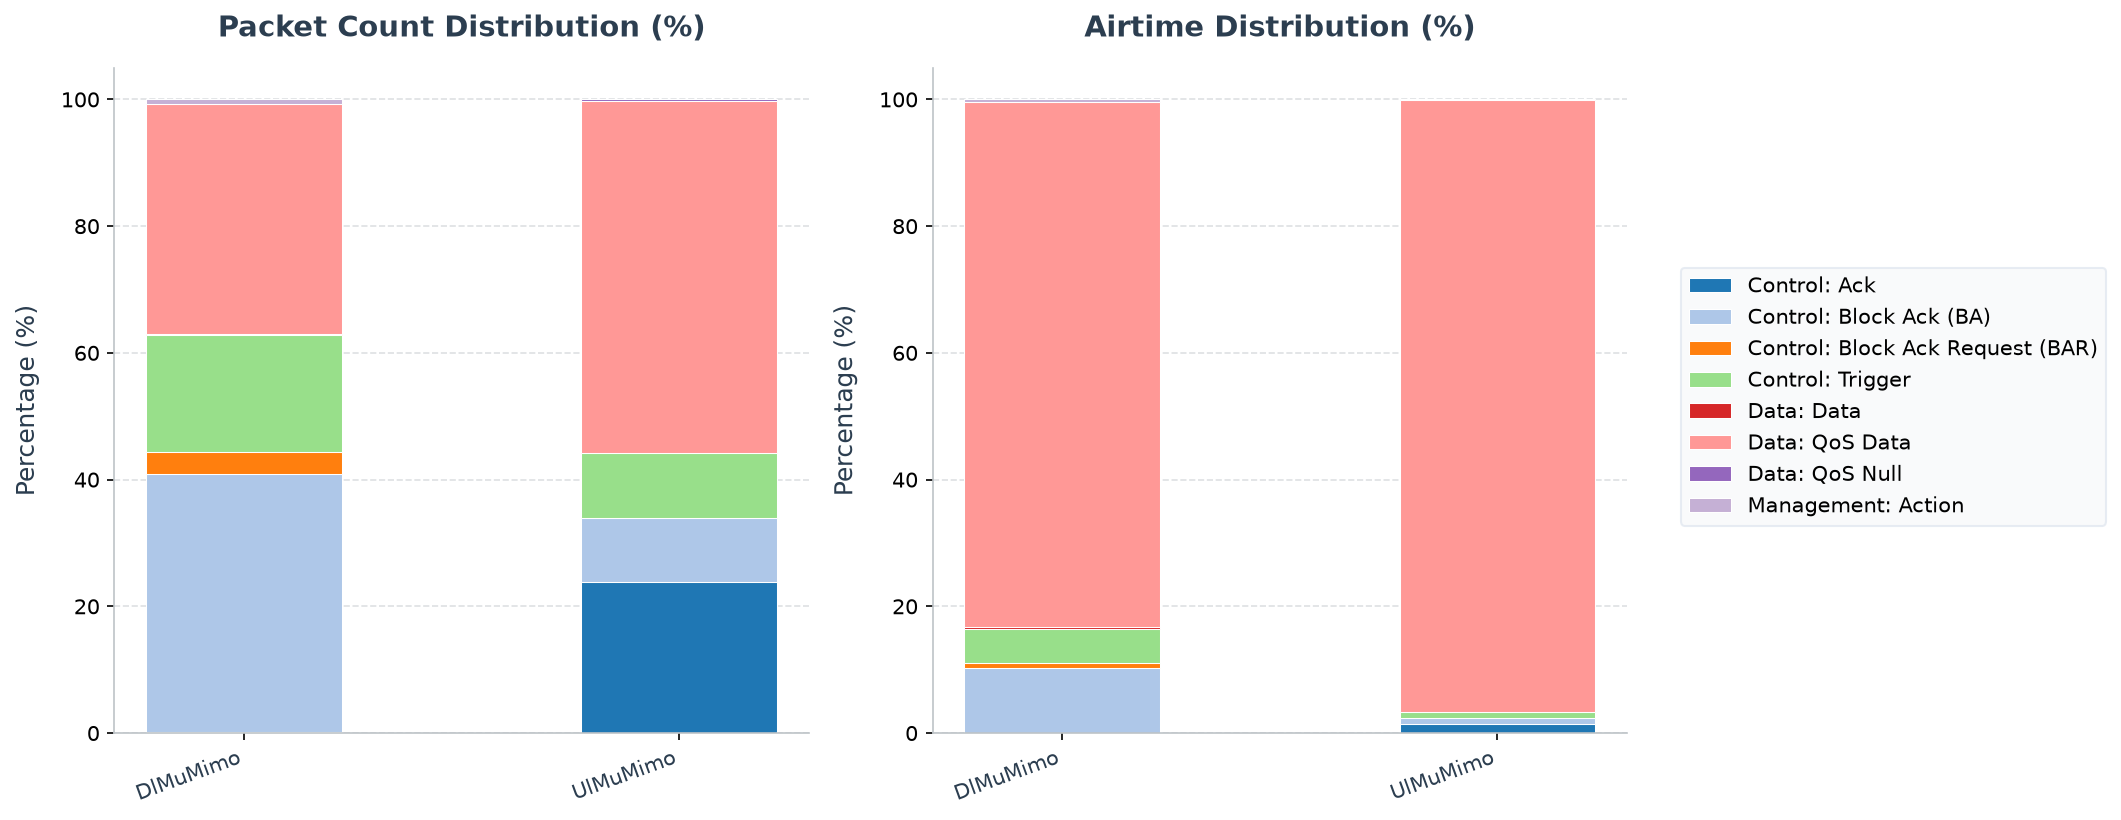
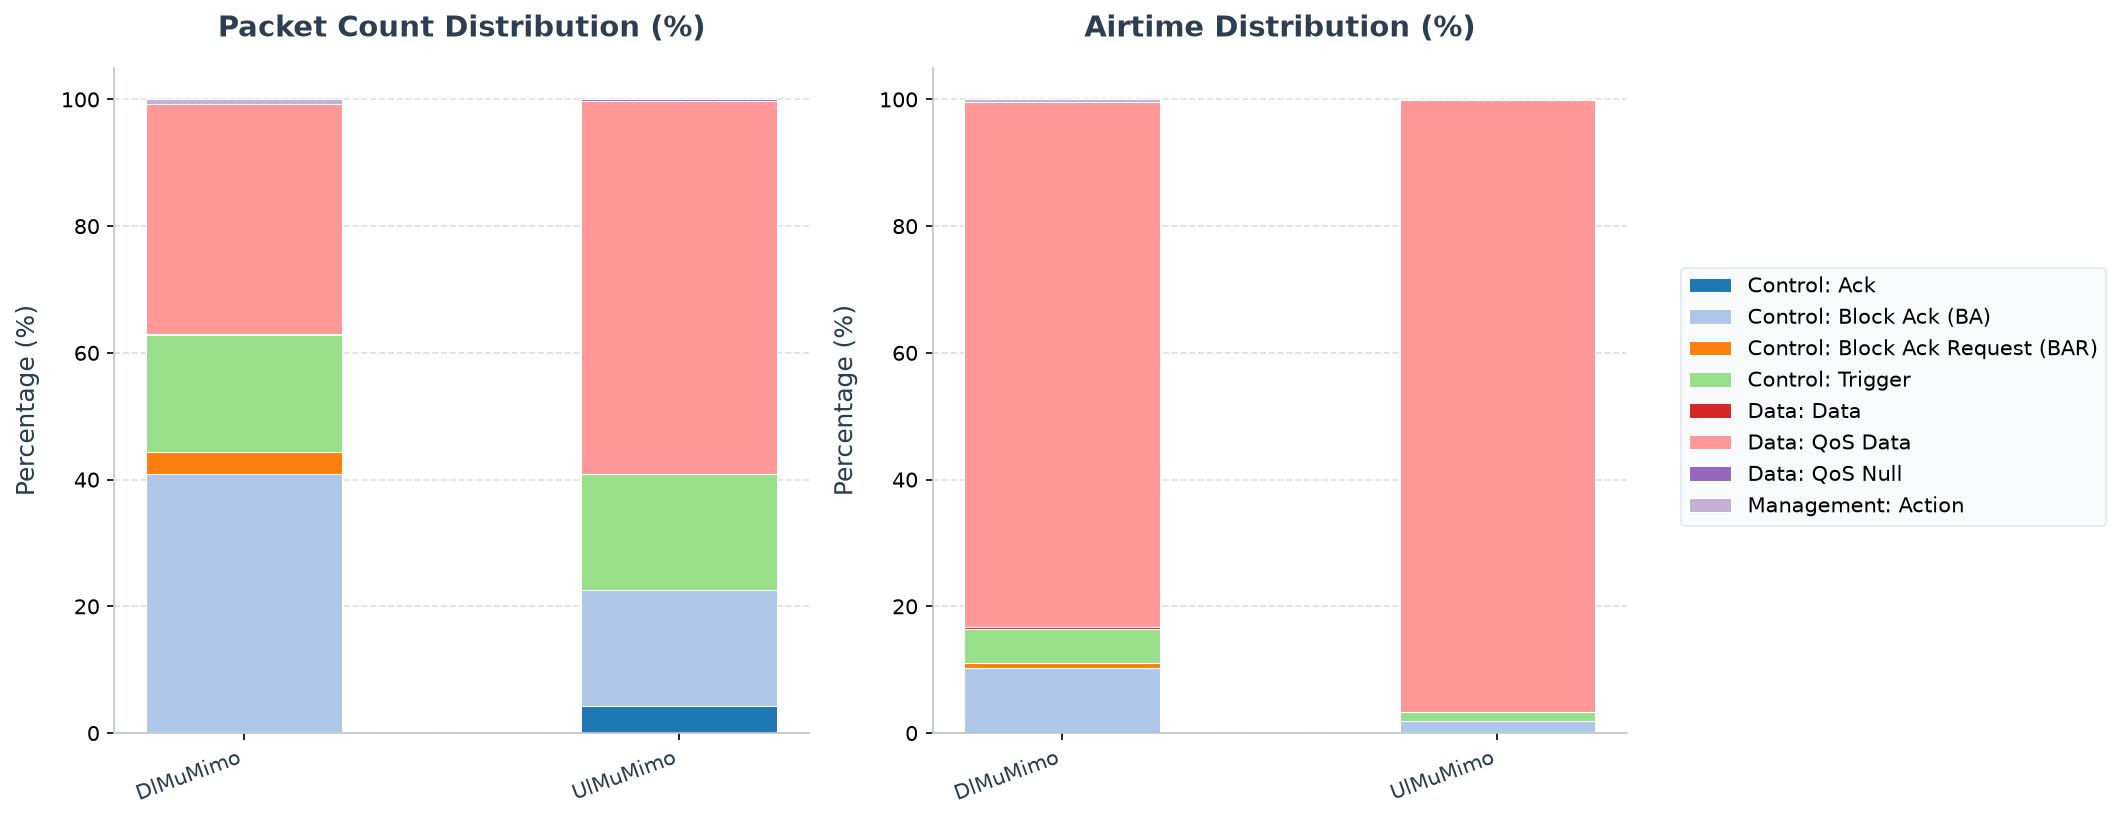
feat(802.11ax):  Radiotap HE and HE-MU Field Serialization
We have successfully implemented the serialization of IEEE 802.11ax HE (High-Efficiency) and HE-MU (Multi-User) Radiotap fields inside INET's [PcapRecorder](src/inet/common/packet/recorder/PcapRecorder.cc).

## Changes Made

### 1. Header Imports and Enum Extension
We updated [PcapRecorder.cc](src/inet/common/packet/recorder/PcapRecorder.cc) to include HE-specific tag and mode classes:

```cpp
#ifdef INET_WITH_IEEE80211
#include "inet/linklayer/ieee80211/mac/Ieee80211Frame_m.h"
#include "inet/physicallayer/wireless/ieee80211/packetlevel/Ieee80211Tag_m.h"
#include "inet/physicallayer/wireless/ieee80211/mode/Ieee80211HeMode.h"
#endif
```

We also added the HE and HE-MU field positions to the `RadiotapPresentBit` enum:

```cpp
enum RadiotapPresentBit {
    ...
    RADIOTAP_HE = 23,
    RADIOTAP_HE_MU = 24,
};
```

### 2. makeRadiotapHeader Update
We refactored `makeRadiotapHeader` to:
* Detect active HE multi-user request/indication tags ([Ieee80211HeMuReq](src/inet/physicallayer/wireless/ieee80211/packetlevel/Ieee80211Tag.msg#L59-L84) and [Ieee80211HeMuRxTag](src/inet/physicallayer/wireless/ieee80211/packetlevel/Ieee80211Tag.msg#L107-L117)) or HE modes.
* Set the corresponding HE and HE-MU present flags in the Radiotap bitmap.
* Append the 2-byte aligned structures for the HE field (12 bytes) and the HE-MU field (12 bytes) with physical layer attributes (format, GI, MCS, spatial streams, coding, and Resource Unit subcarrier channels).

---

## Verification Results
[…]

Changed region(s): [[0.2489, 0.6098, 0.3734, 0.8841], [0.6535, 0.8537, 0.7468, 0.9146], [0.2489, 0.5488, 0.3734, 0.5793]]

diff --git a/src/inet/common/packet/recorder/PcapRecorder.cc b/src/inet/common/packet/recorder/PcapRecorder.cc
@@ -29,6 +29,8 @@
 
 #ifdef INET_WITH_IEEE80211
 #include "inet/linklayer/ieee80211/mac/Ieee80211Frame_m.h"
+#include "inet/physicallayer/wireless/ieee80211/packetlevel/Ieee80211Tag_m.h"
+#include "inet/physicallayer/wireless/ieee80211/mode/Ieee80211HeMode.h"
 #endif
 
 #ifdef INET_WITH_PHYSICALLAYERWIRELESSCOMMON
@@ -49,6 +51,8 @@ enum RadiotapPresentBit {
     RADIOTAP_DBM_TX_POWER = 10,
     RADIOTAP_RX_FLAGS = 14,
     RADIOTAP_TX_FLAGS = 15,
+    RADIOTAP_HE = 23,
+    RADIOTAP_HE_MU = 24,
 };
 
 enum RadiotapFlags {
@@ -141,6 +145,45 @@ std::vector<uint8_t> makeRadiotapHeader(const Packet *packet, Direction directio
     uint32_t present = 1U << RADIOTAP_FLAGS;
     std::vector<uint8_t> bytes(8, 0); // version, pad, length, present bitmap
 
+    bool isHe = false;
+    bool isHeMu = false;
+    Ptr<const physicallayer::Ieee80211HeMuReq> heMuReq;
+    Ptr<const physicallayer::Ieee80211HeMuRxTag> heMuRx;
+    const physicallayer::Ieee80211HeMode *heMode = nullptr;
+
+#ifdef INET_WITH_IEEE80211
+    heMuReq = packet->findTag<physicallayer::Ieee80211HeMuReq>();
+    heMuRx = packet->findTag<physicallayer::Ieee80211HeMuRxTag>();
+    if (heMuReq != nullptr || heMuRx != nullptr) {
+        isHe = true;
+        isHeMu = true;
+    }
+    else {
+        const physicallayer::IIeee80211Mode *mode = nullptr;
+        auto modeReq = packet->findTag<physicallayer::Ieee80211ModeReq>();
+        if (modeReq != nullptr)
+            mode = modeReq->getMode();
+        else {
+            auto modeInd = packet->findTag<physicallayer::Ieee80211ModeInd>();
+            if (modeInd != nullptr)
+                mode = modeInd->getMode();
+        }
+        if (mode != nullptr) {
+            heMode = dynamic_cast<const physicallayer::Ieee80211HeMode *>(mode);
+            if (heMode != nullptr) {
+                isHe = true;
+            }
+        }
+    }
+#endif
+
+    if (isHe) {
+        present |= 1U << RADIOTAP_HE;
+        if (isHeMu) {
+            present |= 1U << RADIOTAP_HE_MU;
+        }
+    }
+
     // IEEE 802.11 packets recorded by PcapRecorder contain the MAC trailer.
     uint8_t flags = RADIOTAP_F_FCS;
     if (packet->hasBitError())
@@ -199,6 +242,107 @@ std::vector<uint8_t> makeRadiotapHeader(const Packet *packet, Direction directio
         appendPadding(bytes, 2);
         appendUint16(bytes, 0);
     }
+
+#ifdef INET_WITH_IEEE80211
+    if (isHe) {
+        appendPadding(bytes, 2);
+
+        uint16_t data1 = 0;
+        uint16_t data2 = 0;
+        uint16_t data3 = 0;
+        uint16_t data4 = 0;
+        uint16_t data5 = 0;
+        uint16_t data6 = 0;
+
+        if (heMuReq != nullptr) {
+            // HE TB format is 3
+            data1 |= 3 & 0x3;
+            // Known flags: PPDU Format, UL/DL, Coding, MCS, GI, PE
+            data1 |= (1U << 0) | (1U << 4) | (1U << 5) | (1U << 7);
+            
+            // Uplink
+            data2 |= (1U << 1);
+            
+            // Guard Interval: 0=0.8us, 1=1.6us, 2=3.2us
+            data3 |= (heMuReq->getGuardInterval() & 0x7);
+            
+            // Set coding, MCS, NSS, DCM in data5
+            data5 |= (heMuReq->getMcs() & 0xF);
+            data5 |= ((heMuReq->getNumberOfSpatialStreams() - 1) & 0x7) << 4;
+            if (heMuReq->getDcm()) data5 |= (1U << 7);
+            data5 |= (heMuReq->getCoding() & 0x1) << 8; // Coding: 0=BCC, 1=LDPC
+            
+            // Punctured subchannel mask
+            data4 |= (heMuReq->getPuncturedSubchannelMask() & 0xF) << 3;
+        }
+        else if (heMuRx != nullptr) {
+            // Format from tag
+            uint8_t format = heMuRx->getPpduFormat(); // 0: DL MU, 1: UL TB
+            data1 |= (format == 0 ? 2 : 3) & 0x3;
+            data1 |= (1U << 0) | (1U << 4) | (1U << 7);
+            
+            data2 |= (format == 0 ? 0 : 1) << 1; // DL=0, UL=1
+            data3 |= (heMuRx->getGuardInterval() & 0x7);
+            
+            data4 |= (heMuRx->getPuncturedSubchannelMask() & 0xF) << 3;
+        }
+        else if (heMode != nullptr) {
+            // HE SU format = 0
+            data1 |= 0 & 0x3;
+            data1 |= (1U << 0) | (1U << 5) | (1U << 7);
+            
+            auto dm = heMode->getDataMode();
+            if (dm != nullptr) {
+                data5 |= (dm->getMcsIndex() & 0xF);
+                data5 |= ((dm->getNumberOfSpatialStreams() - 1) & 0x7) << 4;
+                
+                auto gi = dm->getGuardIntervalType();
+                data3 |= (gi == physicallayer::Ieee80211HeModeBase::HE_GUARD_INTERVAL_SHORT ? 0 :
+                          gi == physicallayer::Ieee80211HeModeBase::HE_GUARD_INTERVAL_MEDIUM ? 1 : 2);
+                
+                double bw = dm->getBandwidth().get();
+                uint8_t cbw = (bw < 30e6 ? 0 : bw < 60e6 ? 1 : bw < 100e6 ? 2 : 3);
+                data4 |= cbw & 0x7;
+            }
+        }
+
+        appendUint16(bytes, data1);
+        appendUint16(bytes, data2);
+        appendUint16(bytes, data3);
+        appendUint16(bytes, data4);
+        appendUint16(bytes, data5);
+        appendUint16(bytes, data6);
+    }
+
+    if (isHeMu) {
+        appendPadding(bytes, 2);
+        
+        uint16_t flags1 = 0;
+        uint16_t flags2 = 0;
+        uint8_t ruChannel1[4] = {0};
+        uint8_t ruChannel2[4] = {0};
+
+        if (heMuReq != nullptr) {
+            flags1 |= (1U << 5); // DL MU-MIMO configuration known
+            if (heMuReq->getRuIndex() >= 0 && heMuReq->getRuIndex() < 8) {
+                ruChannel1[heMuReq->getRuIndex() / 2] = heMuReq->getRuIndex();
+            }
+        }
+        else if (heMuRx != nullptr) {
+            for (size_t i = 0; i < heMuRx->getAllocationsArraySize(); ++i) {
+                const auto& alloc = heMuRx->getAllocations(i);
+                if (alloc.ruIndex >= 0 && alloc.ruIndex < 8) {
+                    ruChannel1[alloc.ruIndex / 2] = alloc.ruIndex;
+                }
+            }
+        }
+
+        appendUint16(bytes, flags1);
+        appendUint16(bytes, flags2);
+        for (int i = 0; i < 4; ++i) bytes.push_back(ruChannel1[i]);
+        for (int i = 0; i < 4; ++i) bytes.push_back(ruChannel2[i]);
+    }
+#endif
 
     setUint16(bytes, 2, bytes.size());
     setUint32(bytes, 4, present);

diff --git a/examples/ieee80211ax/multi_user/mu_mimo/walkthrough.md b/examples/ieee80211ax/multi_user/mu_mimo/walkthrough.md
@@ -329,15 +329,15 @@ Total over-the-air packets captured (Global BSS/AP): **3826**
 | Data: Data | 7 | 0.18% | 53.7 B | 4.2 B | 153.4 us | 2.3 us | 5010 MHz | - | 20.0 dBm | 0.23% | 0.11% |
 
 ### Configuration: `UlMuMimo`
-Total over-the-air packets captured (Global BSS/AP): **4508**
+Total over-the-air packets captured (Global BSS/AP): **4320**
 
 | Frame Type & Subtype | Count | Percentage | Mean Size | Std Dev | Mean Duration | Std Dev Duration | Freq | Mean RX Sig | Mean TX Pwr | Air Time % | Air Time (Sim Time) % |
 |---|---:|---:|---:|---:|---:|---:|---:|---:|---:|---:|---:|
-| Data: QoS Data | 2505 | 55.57% | 1070.0 B | 0.0 B | 709.3 us | 0.0 us | 5010 MHz | -63.6 dBm | - | 96.62% | 88.84% |
-| Control: Ack | 1074 | 23.82% | 14.0 B | 0.0 B | 24.7 us | 0.0 us | 5010 MHz | - | 10.0 dBm | 1.44% | 1.32% |
-| Control: Trigger | 460 | 10.20% | 45.9 B | 2.1 B | 35.3 us | 0.7 us | 5010 MHz | - | 10.0 dBm | 0.88% | 0.81% |
-| Control: Block Ack (BA) | 459 | 10.18% | 57.6 B | 2.3 B | 39.2 us | 0.8 us | 5010 MHz | - | 10.0 dBm | 0.98% | 0.90% |
-| Data: QoS Null | 10 | 0.22% | 34.0 B | 0.0 B | 142.6 us | 0.0 us | 5002 MHz, 5003 MHz, 5004 MHz, 5006 MHz, 5010 MHz | -64.0 dBm | - | 0.08% | 0.07% |
+| Data: QoS Data | 2544 | 58.89% | 1070.0 B | 0.0 B | 709.3 us | 0.0 us | 5010 MHz | -63.7 dBm | - | 96.52% | 90.22% |
+| Control: Trigger | 792 | 18.33% | 46.0 B | 1.5 B | 35.3 us | 0.5 us | 5010 MHz | - | 10.0 dBm | 1.50% | 1.40% |
+| Control: Block Ack (BA) | 791 | 18.31% | 57.9 B | 1.2 B | 39.3 us | 0.4 us | 5010 MHz | - | 10.0 dBm | 1.66% | 1.55% |
+| Control: Ack | 183 | 4.24% | 14.0 B | 0.0 B | 24.7 us | 0.0 us | 5010 MHz | - | 10.0 dBm | 0.24% | 0.23% |
+| Data: QoS Null | 10 | 0.23% | 34.0 B | 0.0 B | 142.6 us | 0.0 us | 5002 MHz, 5003 MHz, 5004 MHz, 5006 MHz, 5010 MHz | -64.0 dBm | - | 0.08% | 0.07% |
 
 ### Analysis of Packet Distribution
 Across these configurations, **QoS Data** frames constitute the primary payload delivery mechanism, while **Block Ack (BA)** and **Block Ack Request (BAR)** control frames ensure reliable transport via the MAC-level acknowledgment protocol. Management frames, specifically **Beacons**, are transmitted periodically by the Access Point to maintain BSS time synchronization and broadcast network capabilities. The ratio of control/management overhead to actual data frames indicates the relative MAC efficiency of the chosen configurations.